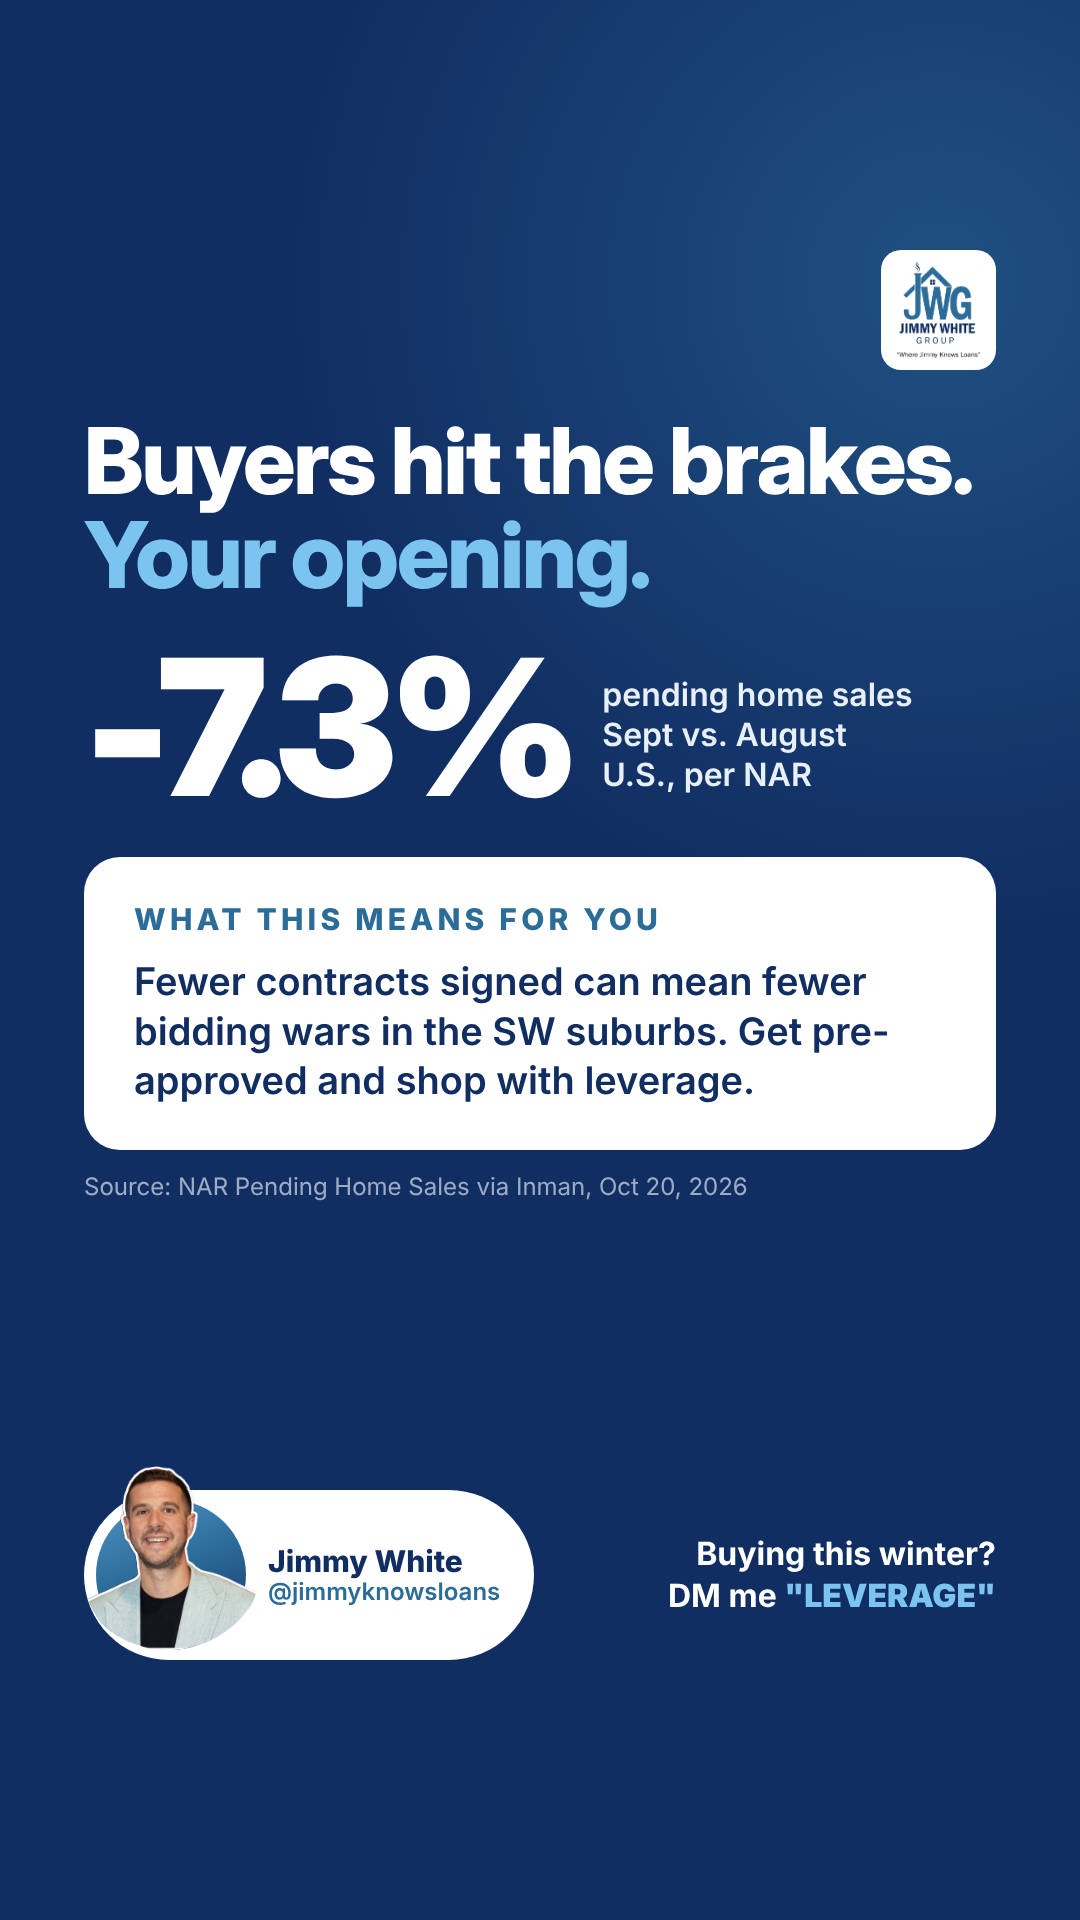
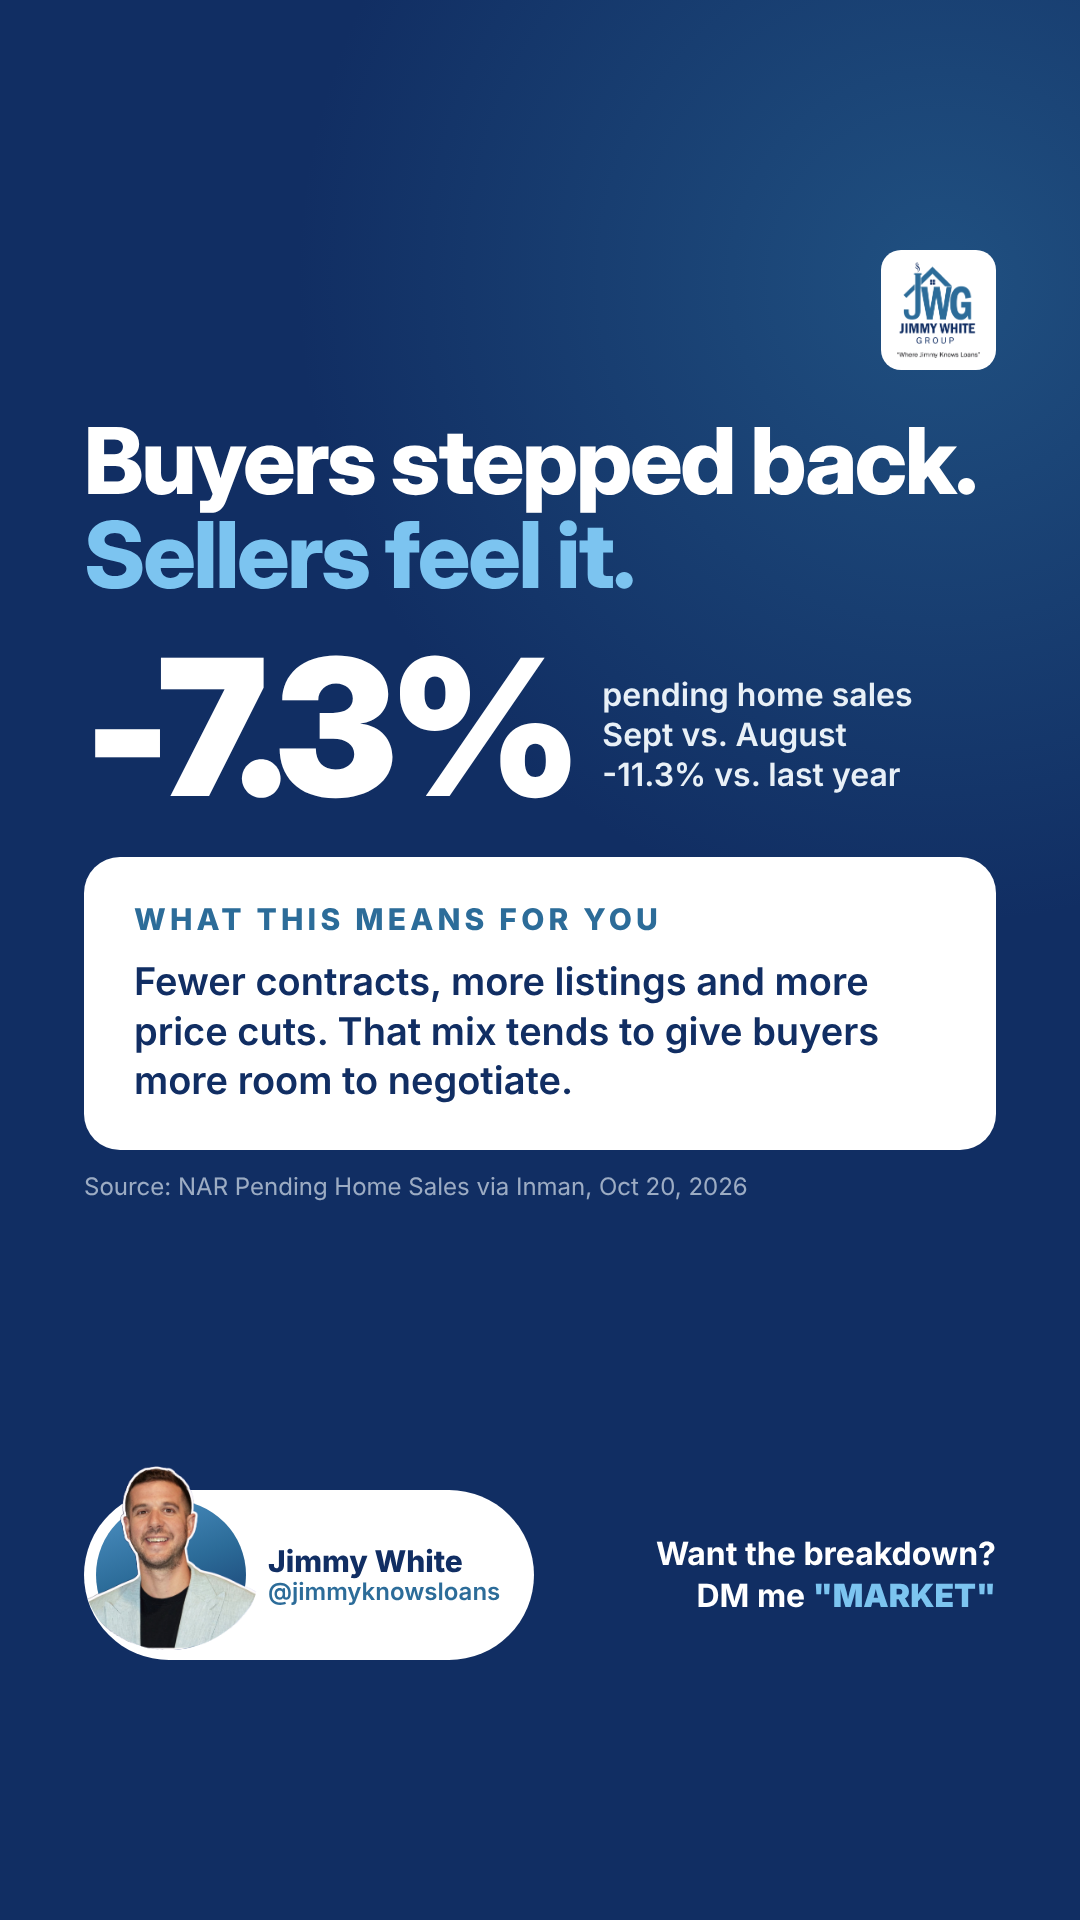
Story 2026-10-22: more insight, softer CTA
Claude-Session: https://claude.ai/code/session_014nwtVPimN2GxNd2dcp1EXp

diff --git a/log.md b/log.md
@@ -3,4 +3,4 @@
 | Date | Headline | Source | Keyword |
 |---|---|---|---|
 | 2026-10-21 | October is Chicago's best month to score a deal | Redfin via Chicago Sun-Times / WBEZ | OCTOBER |
-| 2026-10-22 | Buyers hit the brakes. Your opening. (pending sales -7.3% m/m) | NAR Pending Home Sales via Inman | LEVERAGE |
+| 2026-10-22 | Buyers stepped back. Sellers feel it. (pending sales -7.3% m/m, -11.3% y/y) | NAR Pending Home Sales via Inman | MARKET |
